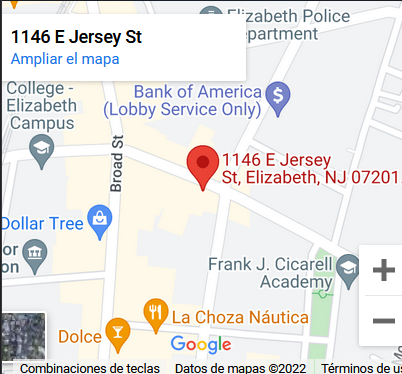
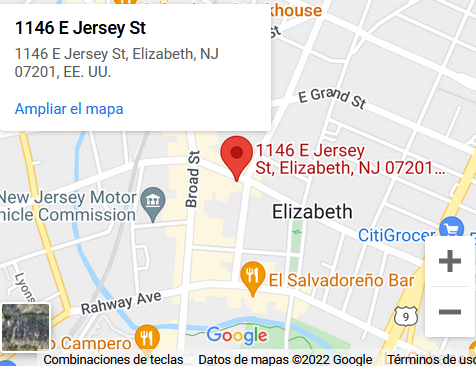
Reemplazando el iframe de los ubicaciones de maps por imagenes con links a las ubicaciones

diff --git a/app/Http/Controllers/WebController.php b/app/Http/Controllers/WebController.php
@@ -482,7 +482,9 @@ class WebController extends Controller
             $data['widthimgdown'] = '90%';
             $data['heightimgdown'] = '100%';
             $data['paddingtop'] = '0px';
-            $data['urlmap'] = 'https://www.google.com/maps/embed?pb=!1m18!1m12!1m3!1d3022.7118327106805!2d-73.90010968459403!3d40.74636597932825!2m3!1f0!2f0!3f0!3m2!1i1024!2i768!4f13.1!3m3!1m2!1s0x89c25f030415024b%3A0x3b391bcaf4cd7c10!2sNotaria%20Latina%20-%20Queens%20New%20York!5e0!3m2!1ses-419!2sec!4v1642622200464!5m2!1ses-419!2sec';
+            $data['urlmap'] = 'https://goo.gl/maps/ovKfQSvTmA5SBqqF6';
+            $data['imgurlmap'] = "img/oficinas/maps-ny.webp";
+            $data['imgurlmapmobile'] = "img/oficinas/maps-ny-mobile.webp";
             $data['metadescription'] .= 'Apostillamos todo tipo de documentos en New York, de una manera rápida y segura';
             $data['keywords'] = 'notaria en new york, notarizar en new york, notaria cerca de mi, notary near me, apostille near me, apostille new york, carta poder en new york, traduccion en new york, apostillar documentos en new york, affidavít en new york, travel authorization en new york, certificar documentos en new york';
 
@@ -771,7 +773,9 @@ class WebController extends Controller
             $data['widthimgdown'] = '70%';
             $data['heightimgdown'] = '25rem';
             $data['paddingtop'] = '15px';
-            $data['urlmap'] = 'https://www.google.com/maps/embed?pb=!1m18!1m12!1m3!1d3026.4152573854667!2d-74.21549248459648!3d40.66481847933702!2m3!1f0!2f0!3f0!3m2!1i1024!2i768!4f13.1!3m3!1m2!1s0x89c24d541387e7ff%3A0x335c07b09362e483!2s1146%20E%20Jersey%20St%2C%20Elizabeth%2C%20NJ%2007201%2C%20EE.%20UU.!5e0!3m2!1ses!2sec!4v1642459239606!5m2!1ses!2sec';
+            $data['urlmap'] = 'https://goo.gl/maps/au6rYtAggrYZ73XZ8';
+            $data['imgurlmap'] = "img/oficinas/maps-nj.webp";
+            $data['imgurlmapmobile'] = "img/oficinas/maps-nj-mobile.webp";
             $data['metadescription'] .= 'Apostillamos todo tipo de documentos en New Jersey, de una manera rápida y segura';
             $data['keywords'] = 'notaria en new jersey, notarizar en new jersey, notaria cerca de mi, notary near me, apostille near me, apostille new jersey, carta poder en new jersey, traduccion en new jersey, apostillar documentos en new jersey, affidavít en new jersey, travel authorization en new jersey, certificar documentos en new jersey';
     
@@ -1060,7 +1064,9 @@ class WebController extends Controller
             $data['widthimgdown'] = '100%';
             $data['heightimgdown'] = '100%';
             $data['paddingtop'] = '0px';
-            $data['urlmap'] = 'https://www.google.com/maps/embed?pb=!1m18!1m12!1m3!1d3581.404392613644!2d-80.25914568497105!3d26.150956283461554!2m3!1f0!2f0!3f0!3m2!1i1024!2i768!4f13.1!3m3!1m2!1s0x88d90638fe895e7b%3A0xaa63cebf0d7899!2s2104%20N%20University%20Dr%2C%20Sunrise%2C%20FL%2033322%2C%20EE.%20UU.!5e0!3m2!1ses!2sec!4v1642375956270!5m2!1ses!2sec';
+            $data['urlmap'] = "https://goo.gl/maps/FHLU1u7Atawjt3Xb8";
+            $data['imgurlmap'] = "img/oficinas/maps-fl.webp";
+            $data['imgurlmapmobile'] = "img/oficinas/maps-fl-mobile.webp";
             $data['metadescription'] .= 'Apostillamos todo tipo de documentos en Florida, de una manera rápida y segura';
             $data['keywords'] = 'notaria en florida, notarizar en florida, notaria cerca de mi, notary near me, apostille near me, apostille florida, carta poder en florida, traduccion en florida, apostillar documentos en florida, affidavít en florida, travel authorization en florida, certificar documentos en florida';
 

diff --git a/resources/views/web/oficina.blade.php b/resources/views/web/oficina.blade.php
@@ -369,8 +369,9 @@
   </section>
 
     <div class="row">
-        <iframe src="{{$data['urlmap']}}" width="100%" height="300" style="border:0;" allowfullscreen="" loading="lazy"></iframe>
-        {{-- <img src="{{ asset('img/oficinas/maps-nj.png') }}" class="img-fluid" alt=""> --}}
+        <a href="{{ $data['urlmap']}}" target="_blank">
+            <img id="imgurlmap" class="img-fluid lazyload" src="{{ asset($data['imgurlmap']) }}" alt="Apostillar Documentos en {{ $data['office'] }}">
+        </a>
     </div>
 
   <div class="mt-5 checks">
@@ -529,7 +530,19 @@
         window.addEventListener('load', (event) => {
             document.getElementById('prisection').style.backgroundImage = "url({{asset($data['imgup'])}})";
             document.getElementById('sectionthree').style.backgroundImage = "url('{{url('img/oficinas/BANNER-NEGRO.webp')}}')";
+            setImageUrlByViewport();
         });
+
+        window.addEventListener('resize', setImageUrlByViewport);
+
+        function setImageUrlByViewport(){
+            var imgUrlMap = document.getElementById('imgurlmap');
+            if (screen.width < 340){
+                imgUrlMap.src = "{{ $data['imgurlmapmobile'] }}";
+            } else {
+                imgUrlMap.src = "{{ $data['imgurlmap'] }}";
+            }
+        }
 
         var pais = document.getElementById('pais');
         var telf = document.getElementById('telf');
